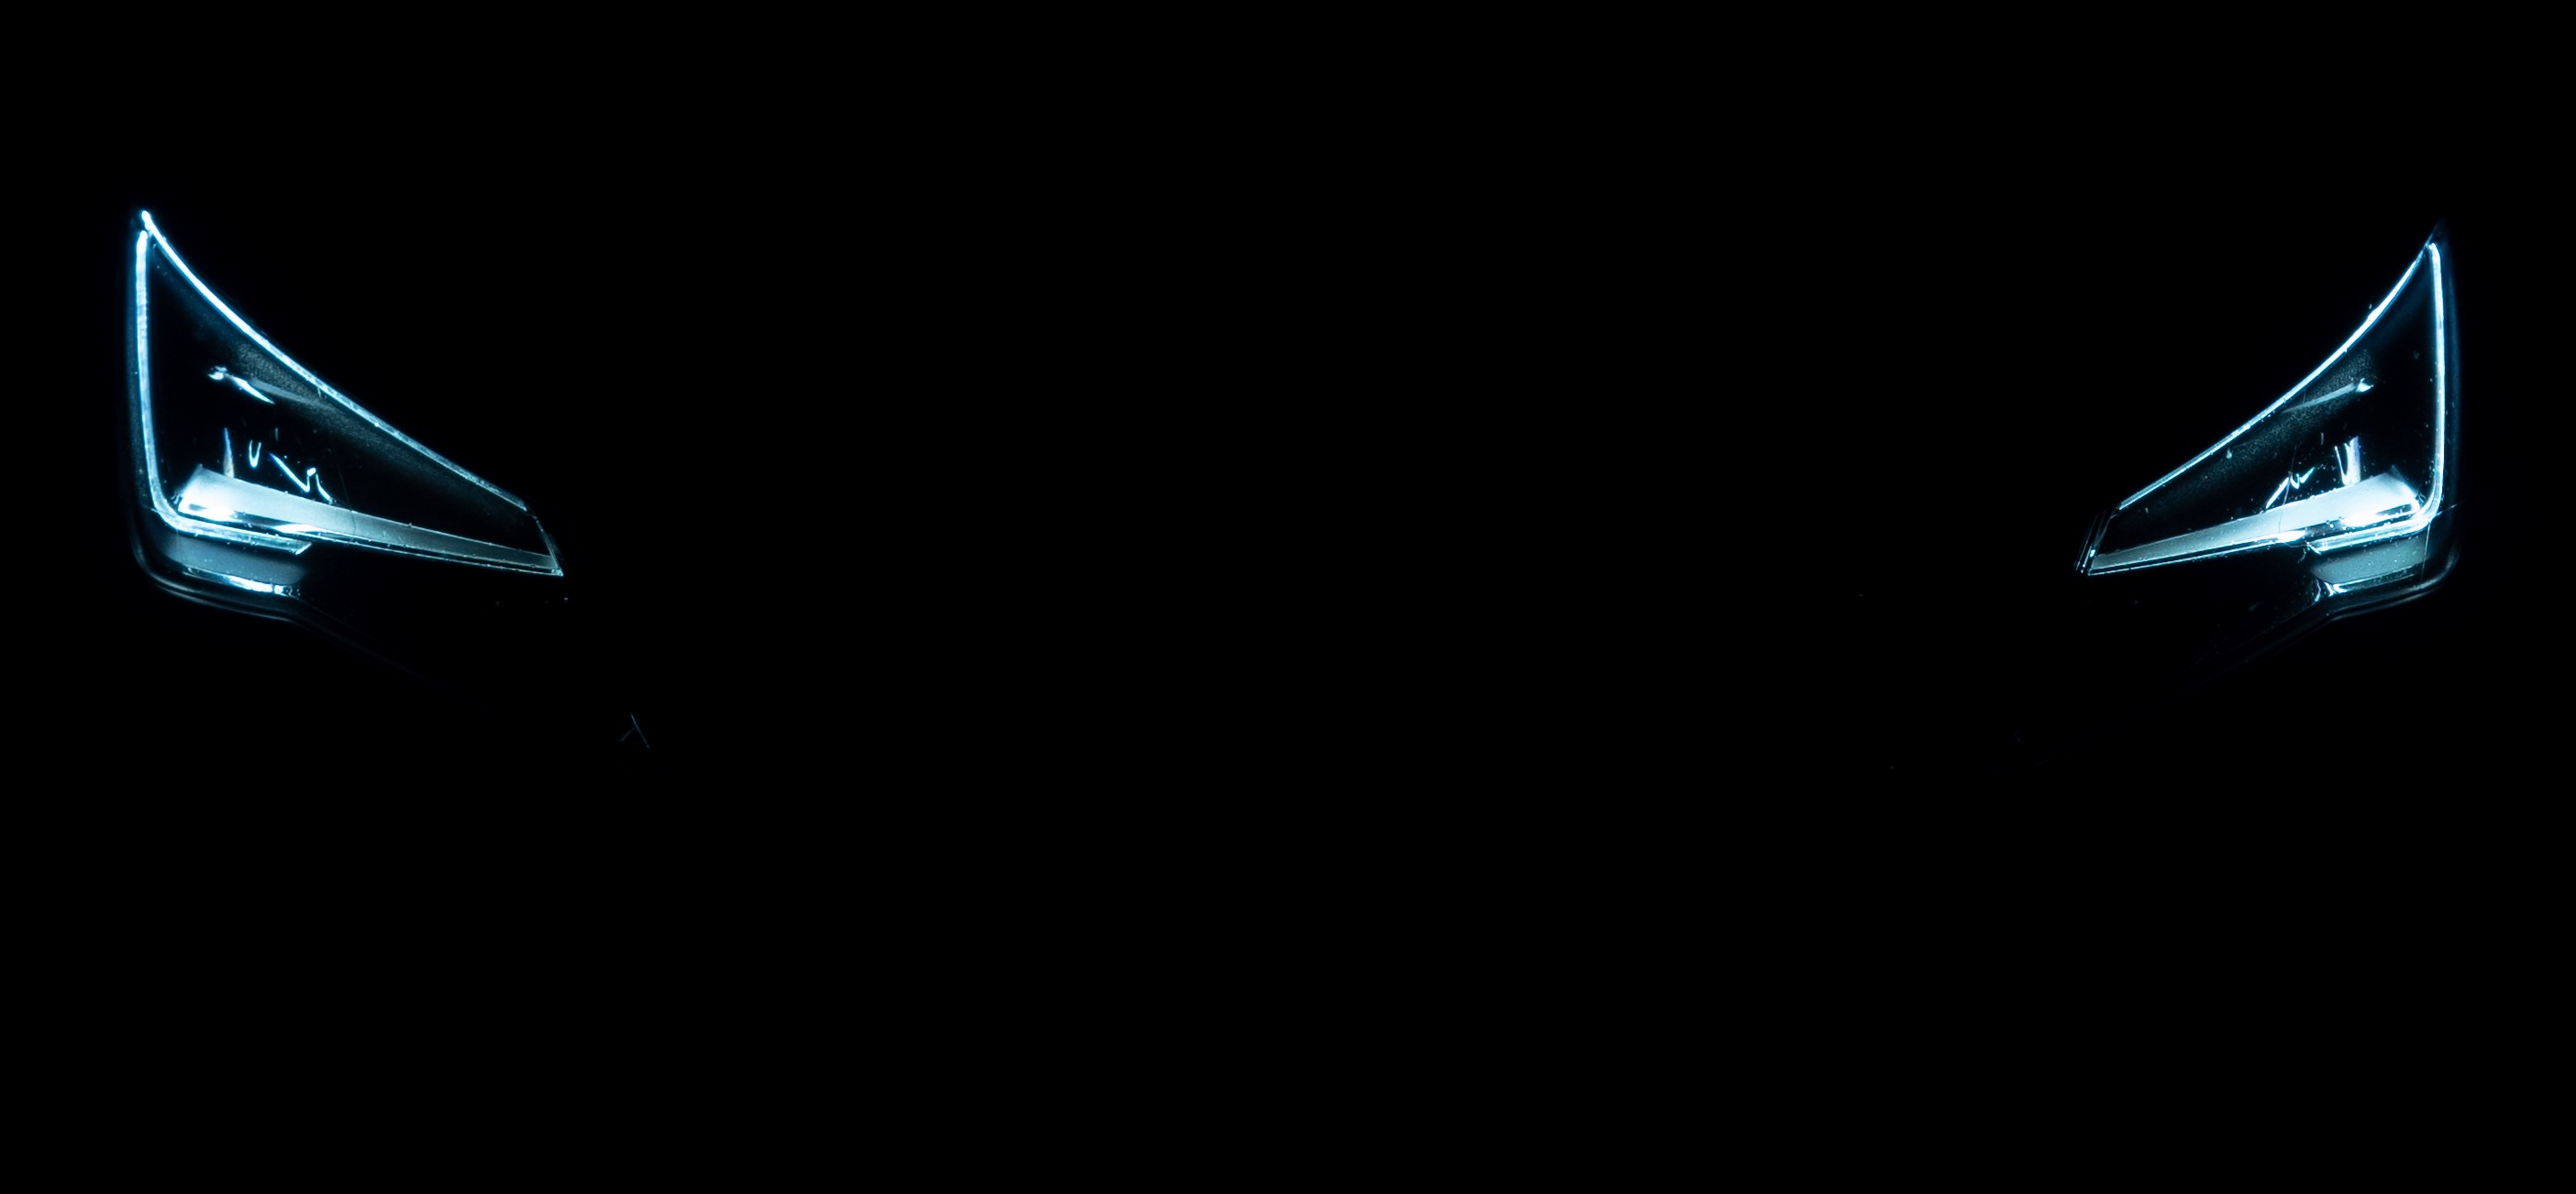
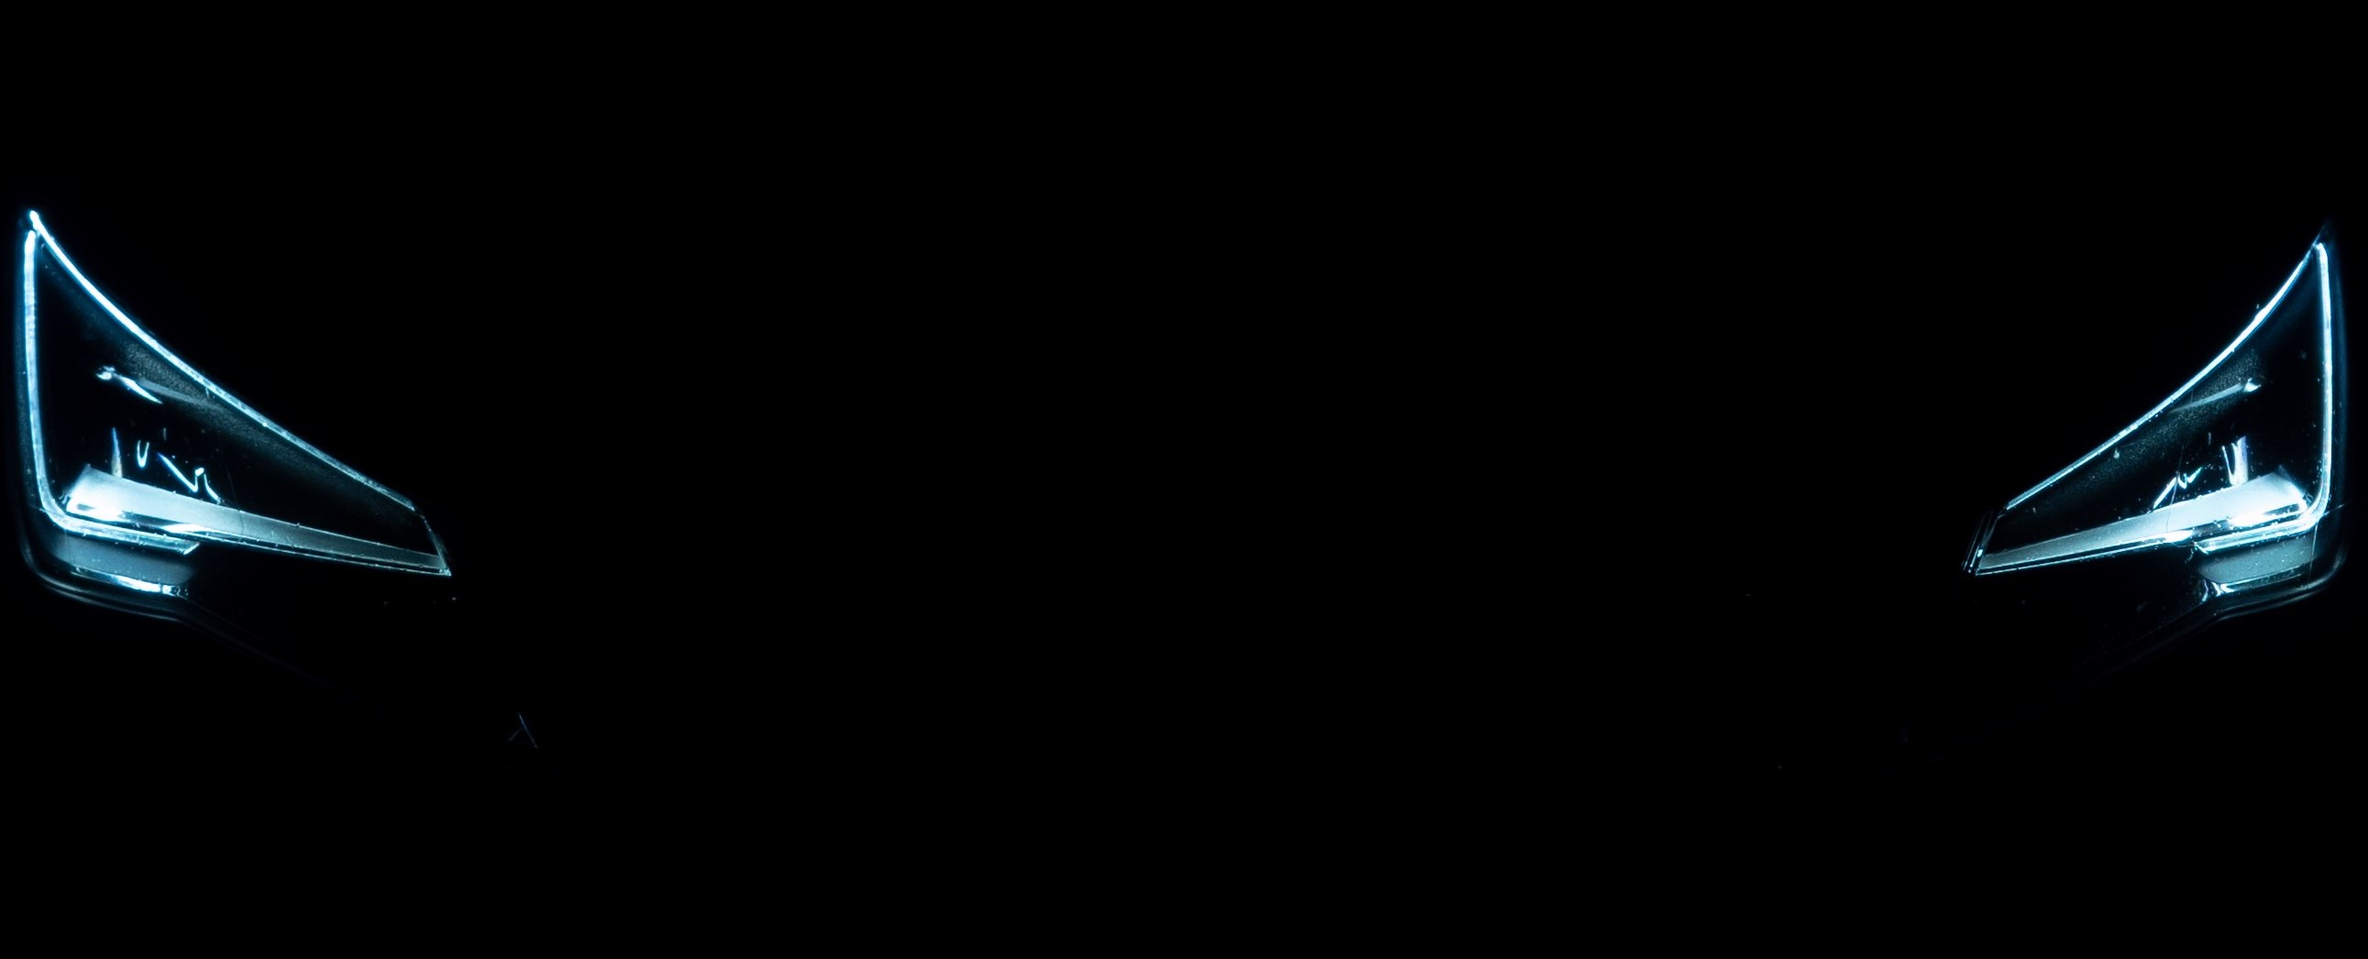
seat aktuell

Changed region(s): [[0.0, 0.153, 0.2168, 0.6424], [0.8053, 0.1836, 0.9911, 0.6424]]

diff --git a/index.html b/index.html
@@ -33,9 +33,10 @@
             <iframe width="560" height="315" src="https://www.youtube.com/embed/etxo_pQA0h8" frameborder="0"
                 allow="accelerometer; autoplay; encrypted-media; gyroscope; picture-in-picture"
                 allowfullscreen></iframe>
-            <img src="Arbeitsproben/Seat.jpg" alt="Offline">
+                <img class="FR" src="Arbeitsproben/Seat.jpg" alt="Offline">
             <iframe src="https://player.vimeo.com/video/261970774" width="640" height="360" frameborder="0"
                 webkitallowfullscreen mozallowfullscreen allowfullscreen></iframe>
+                
         </section>
     </main>
     <footer>

diff --git a/Stylesheet.css b/Stylesheet.css
@@ -60,3 +60,8 @@ footer img {
     margin-top: 0.5rem;
     margin-left: 75rem;
 }
+
+.FR {
+    width: 40%;
+    height: auto;
+}
